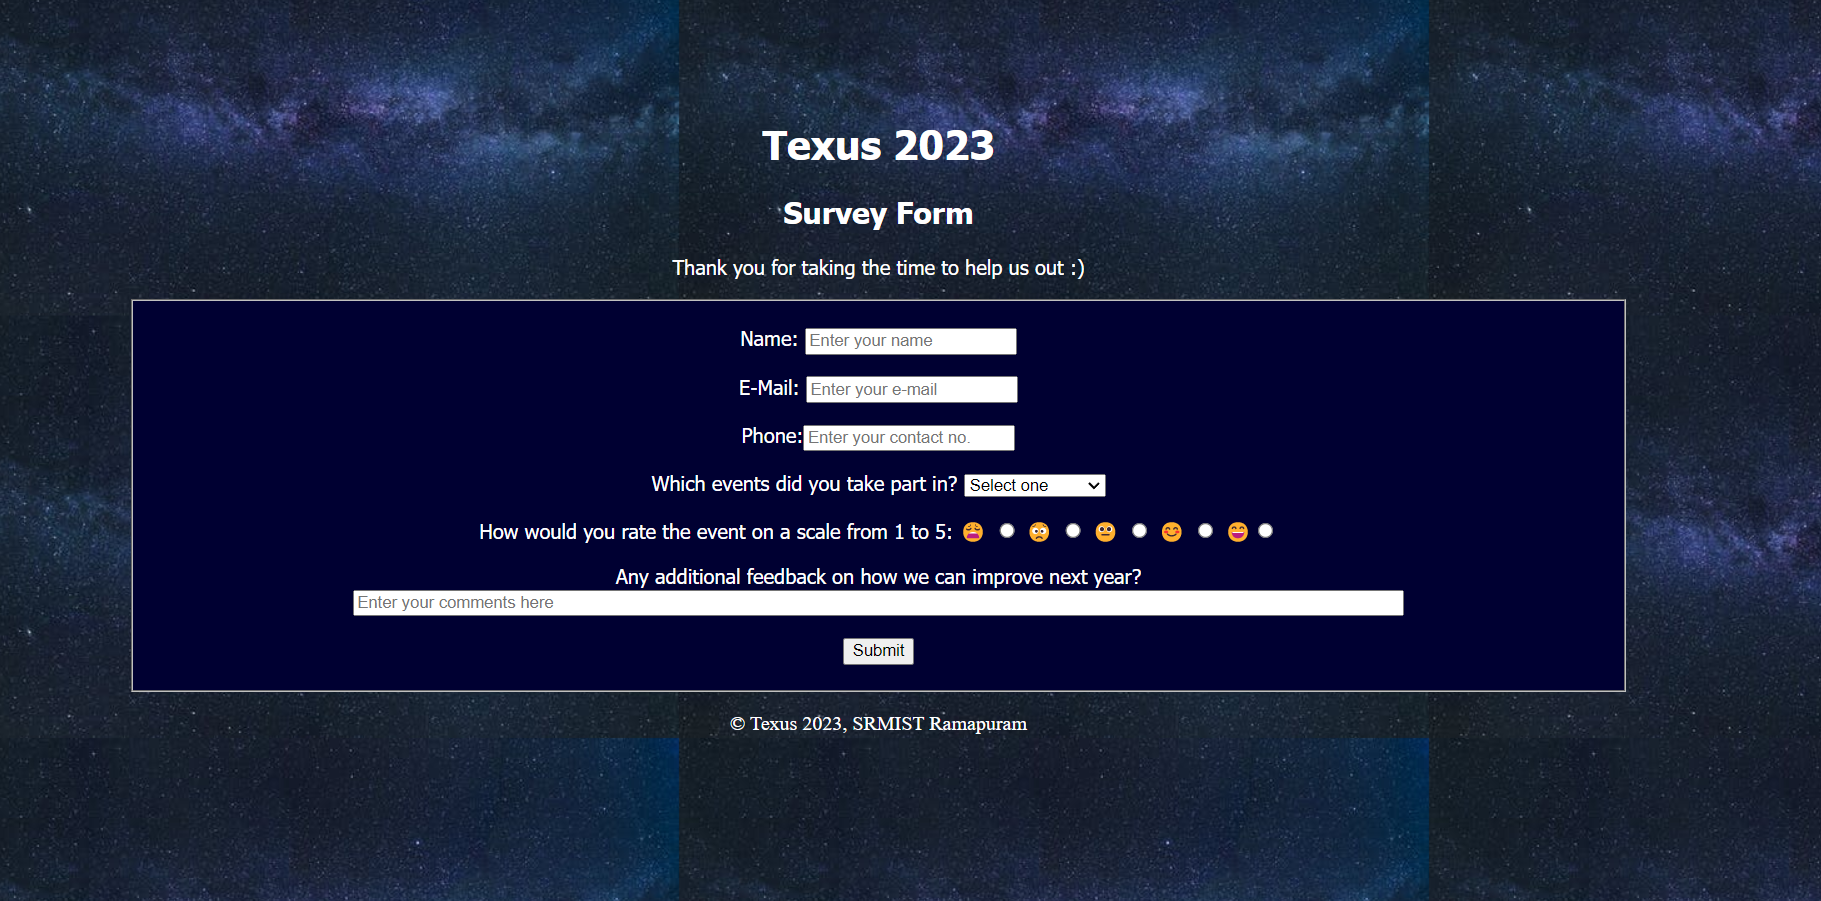
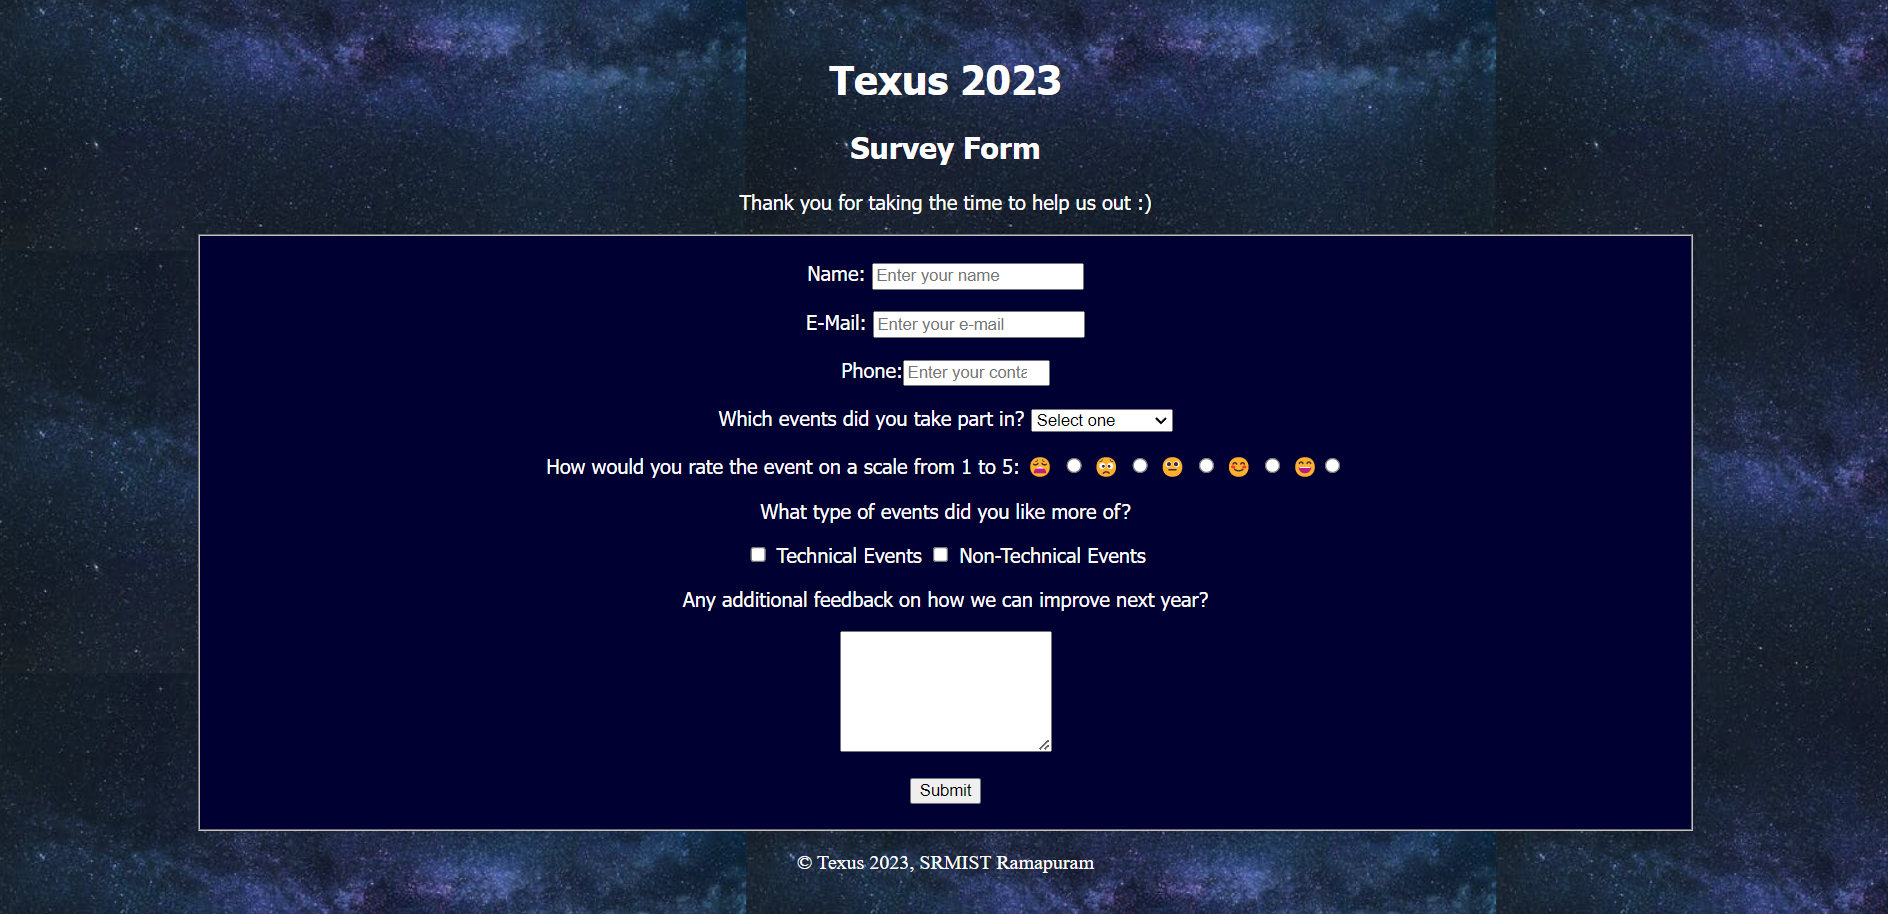
Updated to final version

diff --git a/index.html b/index.html
@@ -14,7 +14,7 @@
       <fieldset>
         <label id="name-label" for="name">Name: <input id="name" type="text" placeholder="Enter your name" display="block" required /></label>
         <label id="email-label" for="email">E-Mail: <input id="email" type="email" placeholder="Enter your e-mail" display="block" required /></label>
-        <label id="number-label" for="number">Phone:<input type="number" minlength="10" maxlength="10" placeholder="Enter your contact no." required> </label>
+        <label id="number-label" for="number">Phone:<input type="number" id="number" minlength="10" maxlength="10" min="1111111111" max="9999999999" placeholder="Enter your contact no." required> </label>
         <label id="dropdown-label" for="dropdown">Which events did you take part in? <select id="dropdown">
           <option value="">Select one</option>
           <option value="1">Tech Scribble</option>
@@ -27,14 +27,23 @@
         </label>
         <label id="radio-label" for="name">
           How would you rate the event on a scale from 1 to 5: 
-          😩 <input type="radio" id="name" value="1" required>
-          😟 <input type="radio" id="name" value="2" required>
-          😐 <input type="radio" id="name" value="3" required>
-          😊  <input type="radio" id="name" value="4" required>
-          😄<input type="radio" id="name" value="5" required>
+          😩 <input type="radio" name="radio" value="1" required>
+          😟 <input type="radio" name="radio" value="2" required>
+          😐 <input type="radio" name="radio" value="3" required>
+          😊  <input type="radio" name="radio" value="4" required>
+          😄<input type="radio" name="radio" value="5" required>
         </label>
-        <label id="feedback-label" for="feedback">Any additional feedback on how we can improve next year?
-          <input type="textarea" placeholder="Enter your comments here" id="feedback" rows="80" cols="200" maxlength="1000" required />
+        What type of events did you like more of?
+        <label id="checkbox-label">
+          
+          <input type="checkbox" value="1"> Technical Events
+        <input type="checkbox"value="2"> Non-Technical Events
+        </label>
+        Any additional feedback on how we can improve next year?
+  
+        <label id="feedback-label" for="feedback">
+          <textarea placeholder="Enter your comments here" id="feedback" maxlength="1000" rows="6" cols="20" required autocorrect />
+          </textarea>
         </label>
          <label id="submit-label" for="submit" >
           <input id="submit" type="submit" value="Submit">

diff --git a/styles.css b/styles.css
@@ -22,6 +22,15 @@ input[type="textarea"]{
 display:block;      margin-bottom:1rem;
 
 }
+
+#checkbox-label{
+display:block;
+margin-top:1rem;
+margin-bottom:1rem;
+}
 #submit:hover{
   background:rgba(0,0,150,10);
+}
+#feedback-label{
+  margin-top:1rem;
 }
